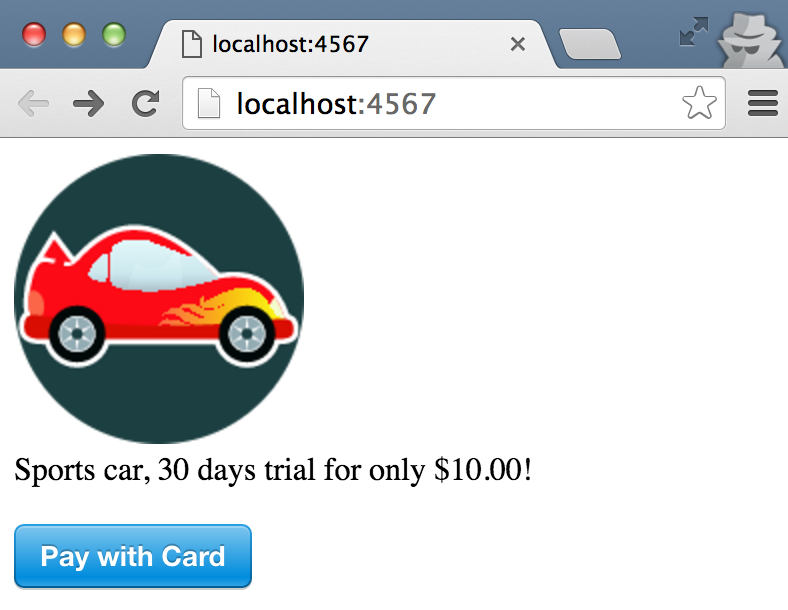
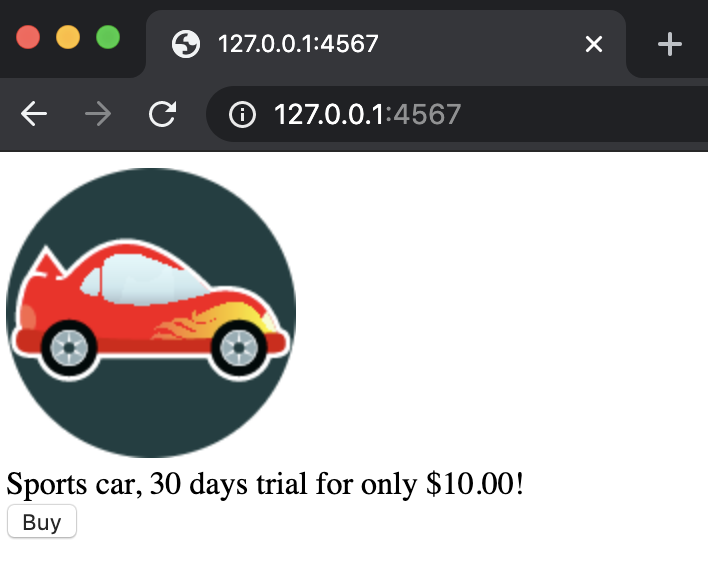
Update for Kill bill 0.22 and Stripe Java plugin

diff --git a/app.rb b/app.rb
@@ -30,11 +30,16 @@ def create_kb_account(user, reason, comment, options)
   account.create(user, reason, comment, options)
 end
 
-def create_kb_payment_method(account, stripe_token, user, reason, comment, options)
+def create_kb_payment_method(account, session_id, user, reason, comment, options)
   pm = KillBillClient::Model::PaymentMethod.new
   pm.account_id = account.account_id
   pm.plugin_name = 'killbill-stripe'
-  pm.plugin_info = {'token' => stripe_token}
+
+  prop_session_id = KillBillClient::Model::PluginPropertyAttributes.new
+  prop_session_id.key = 'sessionId'
+  prop_session_id.value = session_id
+  options[:pluginProperty] = [prop_session_id]
+
   pm.create(true, user, reason, comment, options)
 end
 
@@ -53,7 +58,14 @@ def create_subscription(account, user, reason, comment, options)
   override_trial.fixed_price = 10.0
   subscription.price_overrides << override_trial
 
-  subscription.create(user, reason, comment, nil, true, options)
+  subscription.create(user, reason, comment, nil, true, options.clone.merge( { :params => { :callCompletion => true, :callTimeoutSec => 20 } }))
+end
+
+def create_session(account, options)
+  # Magic template, see https://stripe.com/docs/payments/checkout/fulfillment#webhooks
+  success_url = 'http://localhost:4567/charge?kbAccountId=' + @account.account_id + '&sessionId={CHECKOUT_SESSION_ID}'
+  response = KillBillClient::API.post '/plugins/killbill-stripe/checkout', nil, { :kbAccountId => account.account_id, :successUrl => success_url }, options
+  JSON.parse(response.body)['formFields'].find {|x| x['key'] == 'id'}['value']
 end
 
 #
@@ -64,22 +76,31 @@ get '/' do
   erb :index
 end
 
-post '/charge' do
+post '/checkout' do
   # Create an account
-  account = create_kb_account(user, reason, comment, options)
+  @account = create_kb_account(user, reason, comment, options)
+
+  # Create the Stripe session
+  @session_id = create_session(@account, options)
+
+  erb :checkout
+end
+
+get '/charge' do
+  account = KillBillClient::Model::Account.find_by_id(params[:kbAccountId], true, true, options)
 
   # Add a payment method associated with the Stripe token
-  create_kb_payment_method(account, params[:stripeToken], user, reason, comment, options)
+  create_kb_payment_method(account, params[:sessionId], user, reason, comment, options)
 
   # Add a subscription
   create_subscription(account, user, reason, comment, options)
 
   # Retrieve the invoice
-  @invoice = account.invoices(true, options).first
+  @invoice = account.invoices(options).first
 
   # And the Stripe authorization
   transaction = @invoice.payments(true, false, 'NONE', options).first.transactions.first
-  @authorization = (transaction.properties.find { |p| p.key == 'authorization' }).value
+  @authorization = (transaction.properties.find { |p| p.key == 'id' }).value
 
   erb :charge
 end
@@ -97,15 +118,25 @@ __END__
 
 @@index
   <span class="image"><img src="https://drive.google.com/uc?&amp;id=0Bw8rymjWckBHT3dKd0U3a1RfcUE&amp;w=960&amp;h=480" alt="uc?&amp;id=0Bw8rymjWckBHT3dKd0U3a1RfcUE&amp;w=960&amp;h=480"></span>
-  <form action="/charge" method="post">
+  <form id="checkout" action="/checkout" method="post">
     <article>
       <label class="amount">
         <span>Sports car, 30 days trial for only $10.00!</span>
       </label>
     </article>
-    <br/>
-    <script src="https://checkout.stripe.com/v3/checkout.js" class="stripe-button" data-key="<%= settings.publishable_key %>"></script>
   </form>
+  <button type="submit" form="checkout" value="Submit">Buy</button>
+
+@@checkout
+  <script src="https://js.stripe.com/v3/"></script>
+  <script>
+    var stripe = Stripe('<%= settings.publishable_key %>');
+    stripe.redirectToCheckout({
+      sessionId: '<%= @session_id %>'
+    }).then(function (result) {
+      alert(result.error.message);
+    });
+  </script>
 
 @@charge
   <h2>Thanks! Here is your invoice:</h2>

diff --git a/README.md b/README.md
@@ -1,7 +1,7 @@
 Kill Bill Stripe demo
 =====================
 
-Inspired from the official [Using Checkout and Sinatra](https://stripe.com/docs/checkout/sinatra) guide, this sample app shows you how to integrate Stripe tokenization feature with [Kill Bill subscriptions APIs](http://docs.killbill.io/0.16/userguide_subscription.html).
+Inspired from the official [Using Checkout and Sinatra](https://stripe.com/docs/checkout/sinatra) guide, this sample app shows you how to integrate Stripe tokenization feature with [Kill Bill subscriptions APIs](https://docs.killbill.io/latest/userguide_subscription.html).
 
 Prerequisites
 -------------
@@ -24,8 +24,9 @@ bundle install
 
 This also assumes:
 
-* Kill Bill is [already setup](http://docs.killbill.io/0.20/getting_started.html)
+* Kill Bill is [already setup](https://docs.killbill.io/latest/getting_started.html)
 * The default tenant (bob/lazar) has been created
+* The default tenant has a `Sports` product, with a trial phase
 * The [Stripe plugin](https://github.com/killbill/killbill-stripe-plugin) is installed and configured
 
 Run
@@ -45,7 +46,7 @@ KB_URL='http://192.168.99.100:8080' PUBLISHABLE_KEY=<YOUR_PUBLISHABLE_STRIPE_KEY
 
 Then go to [http://localhost:4567/](http://localhost:4567/) where you should see the Stripe checkout button.
 
-Enter dummy data (4111111111111111 as the credit card number, any three digit CVC and any expiry date in the future work) and complete the checkout process.
+Enter dummy data (4242 4242 4242 4242 as the credit card number, any three digit CVC and any expiry date in the future work) and complete the checkout process.
 
 This will:
 
